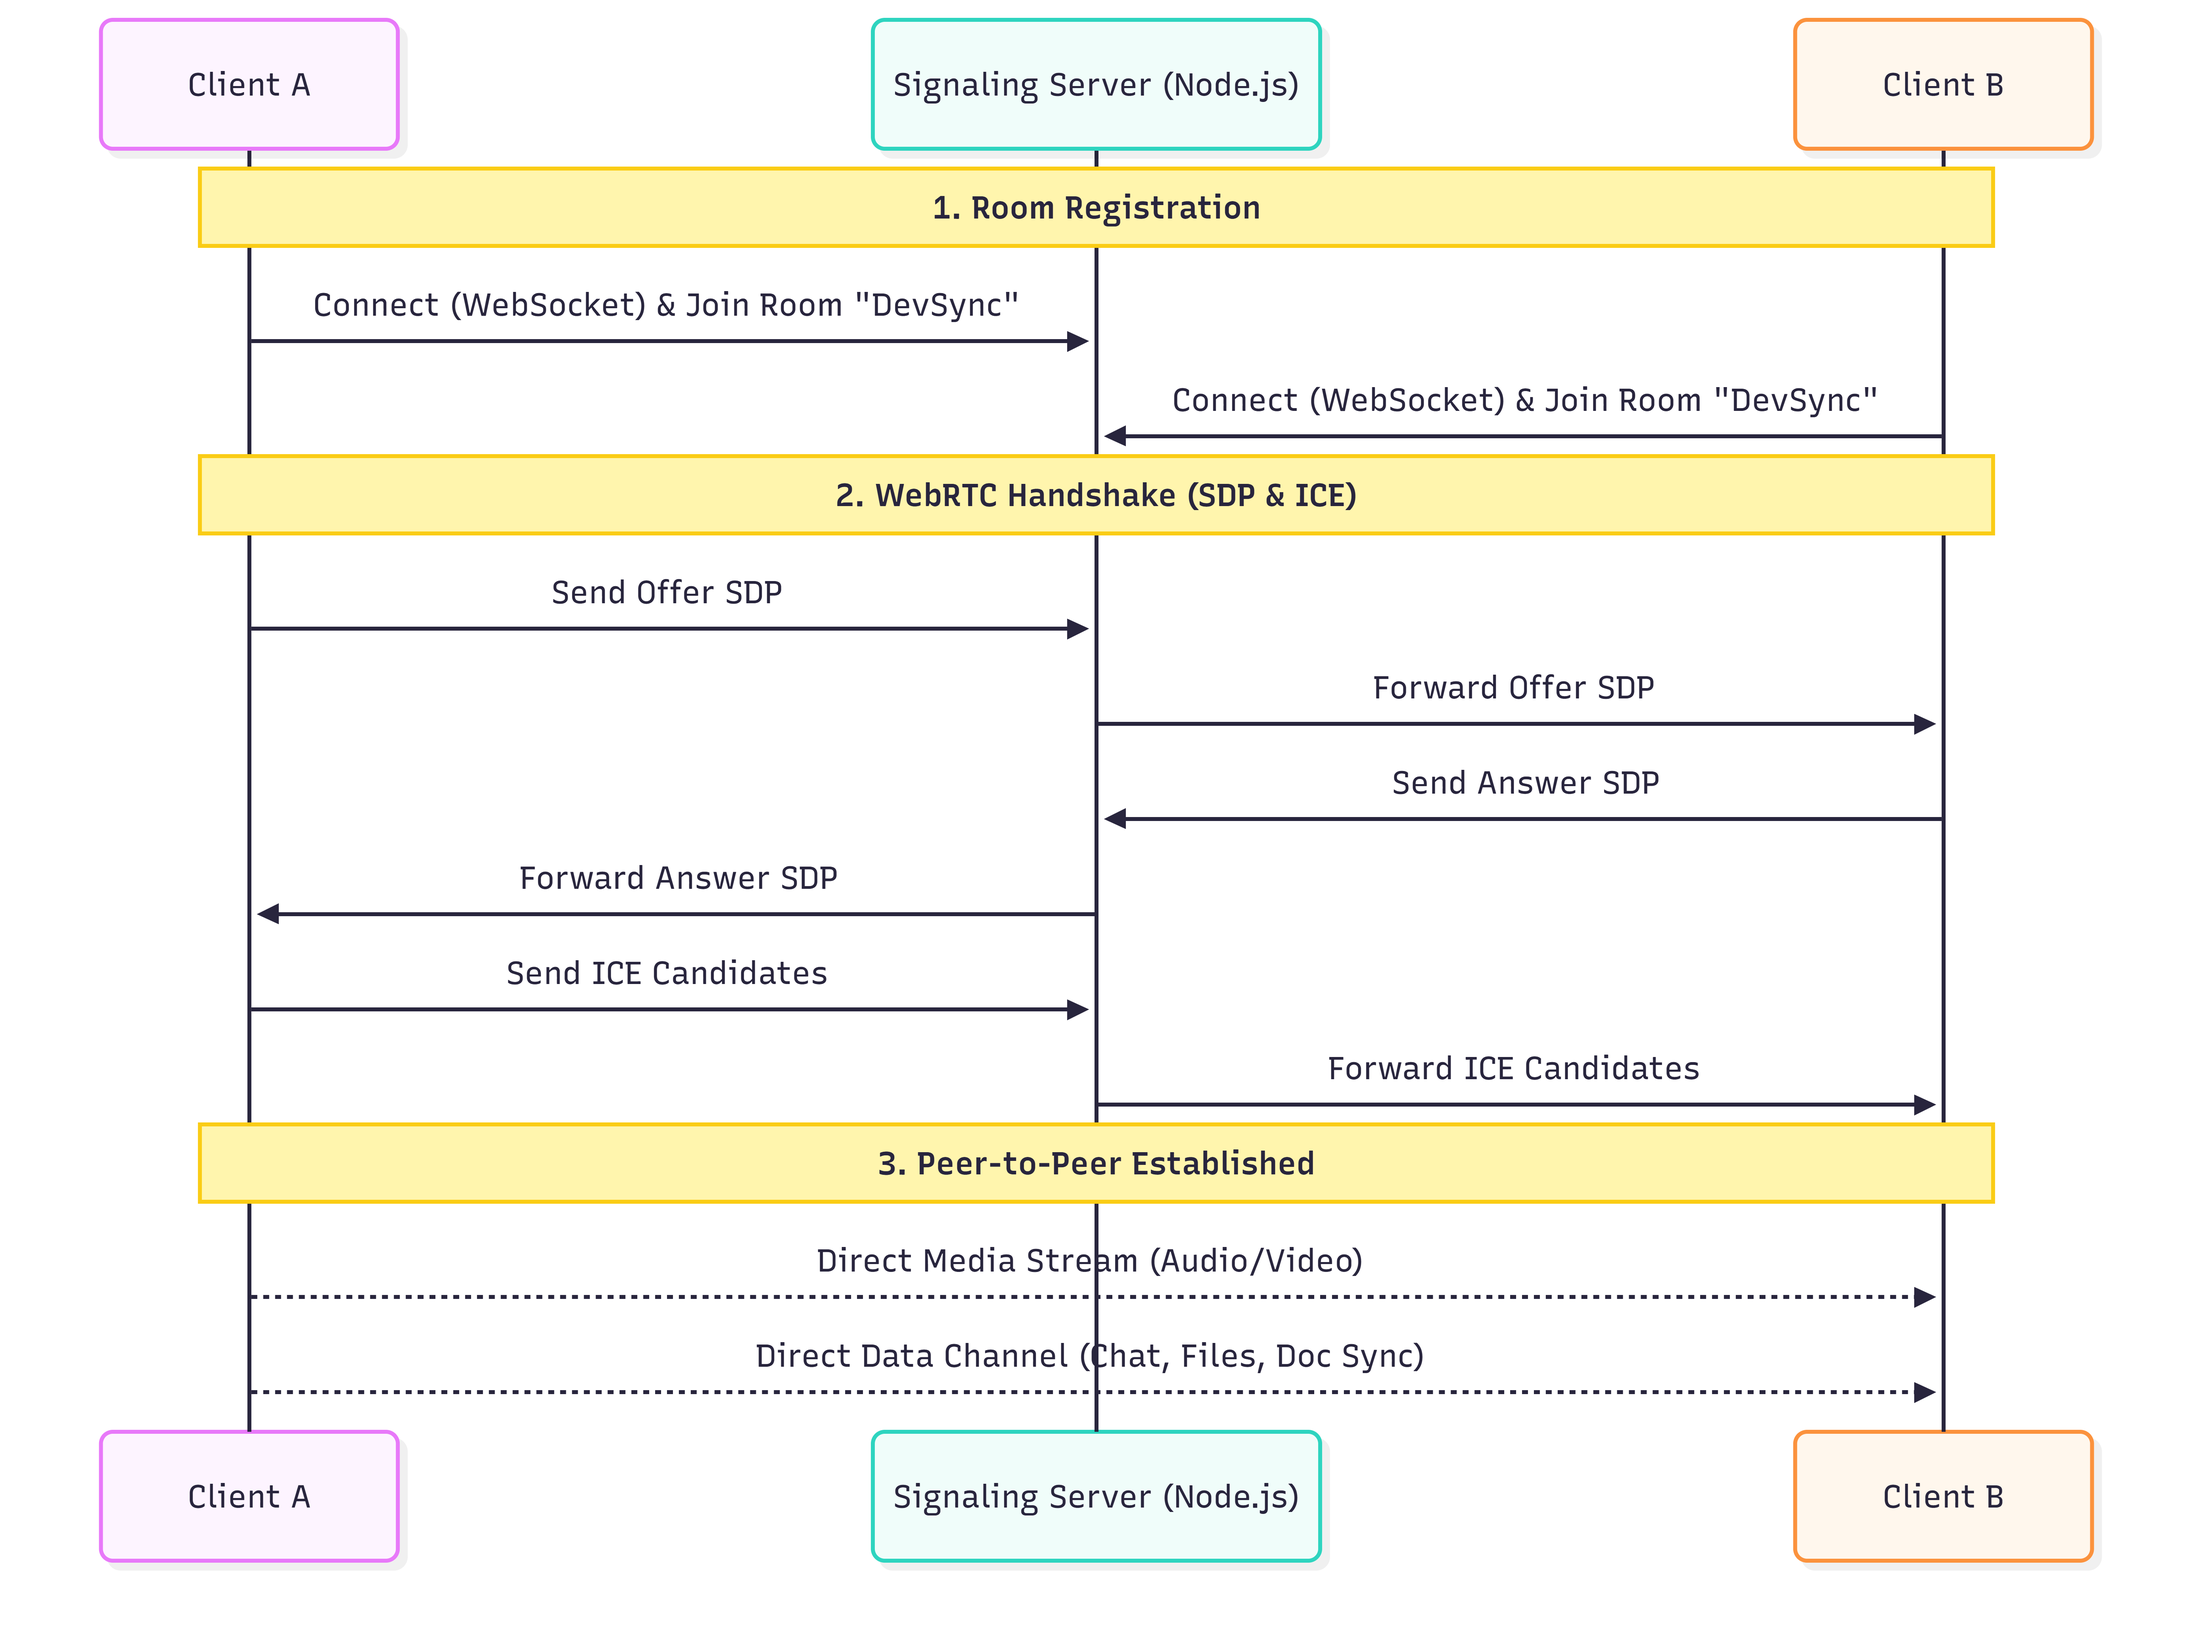
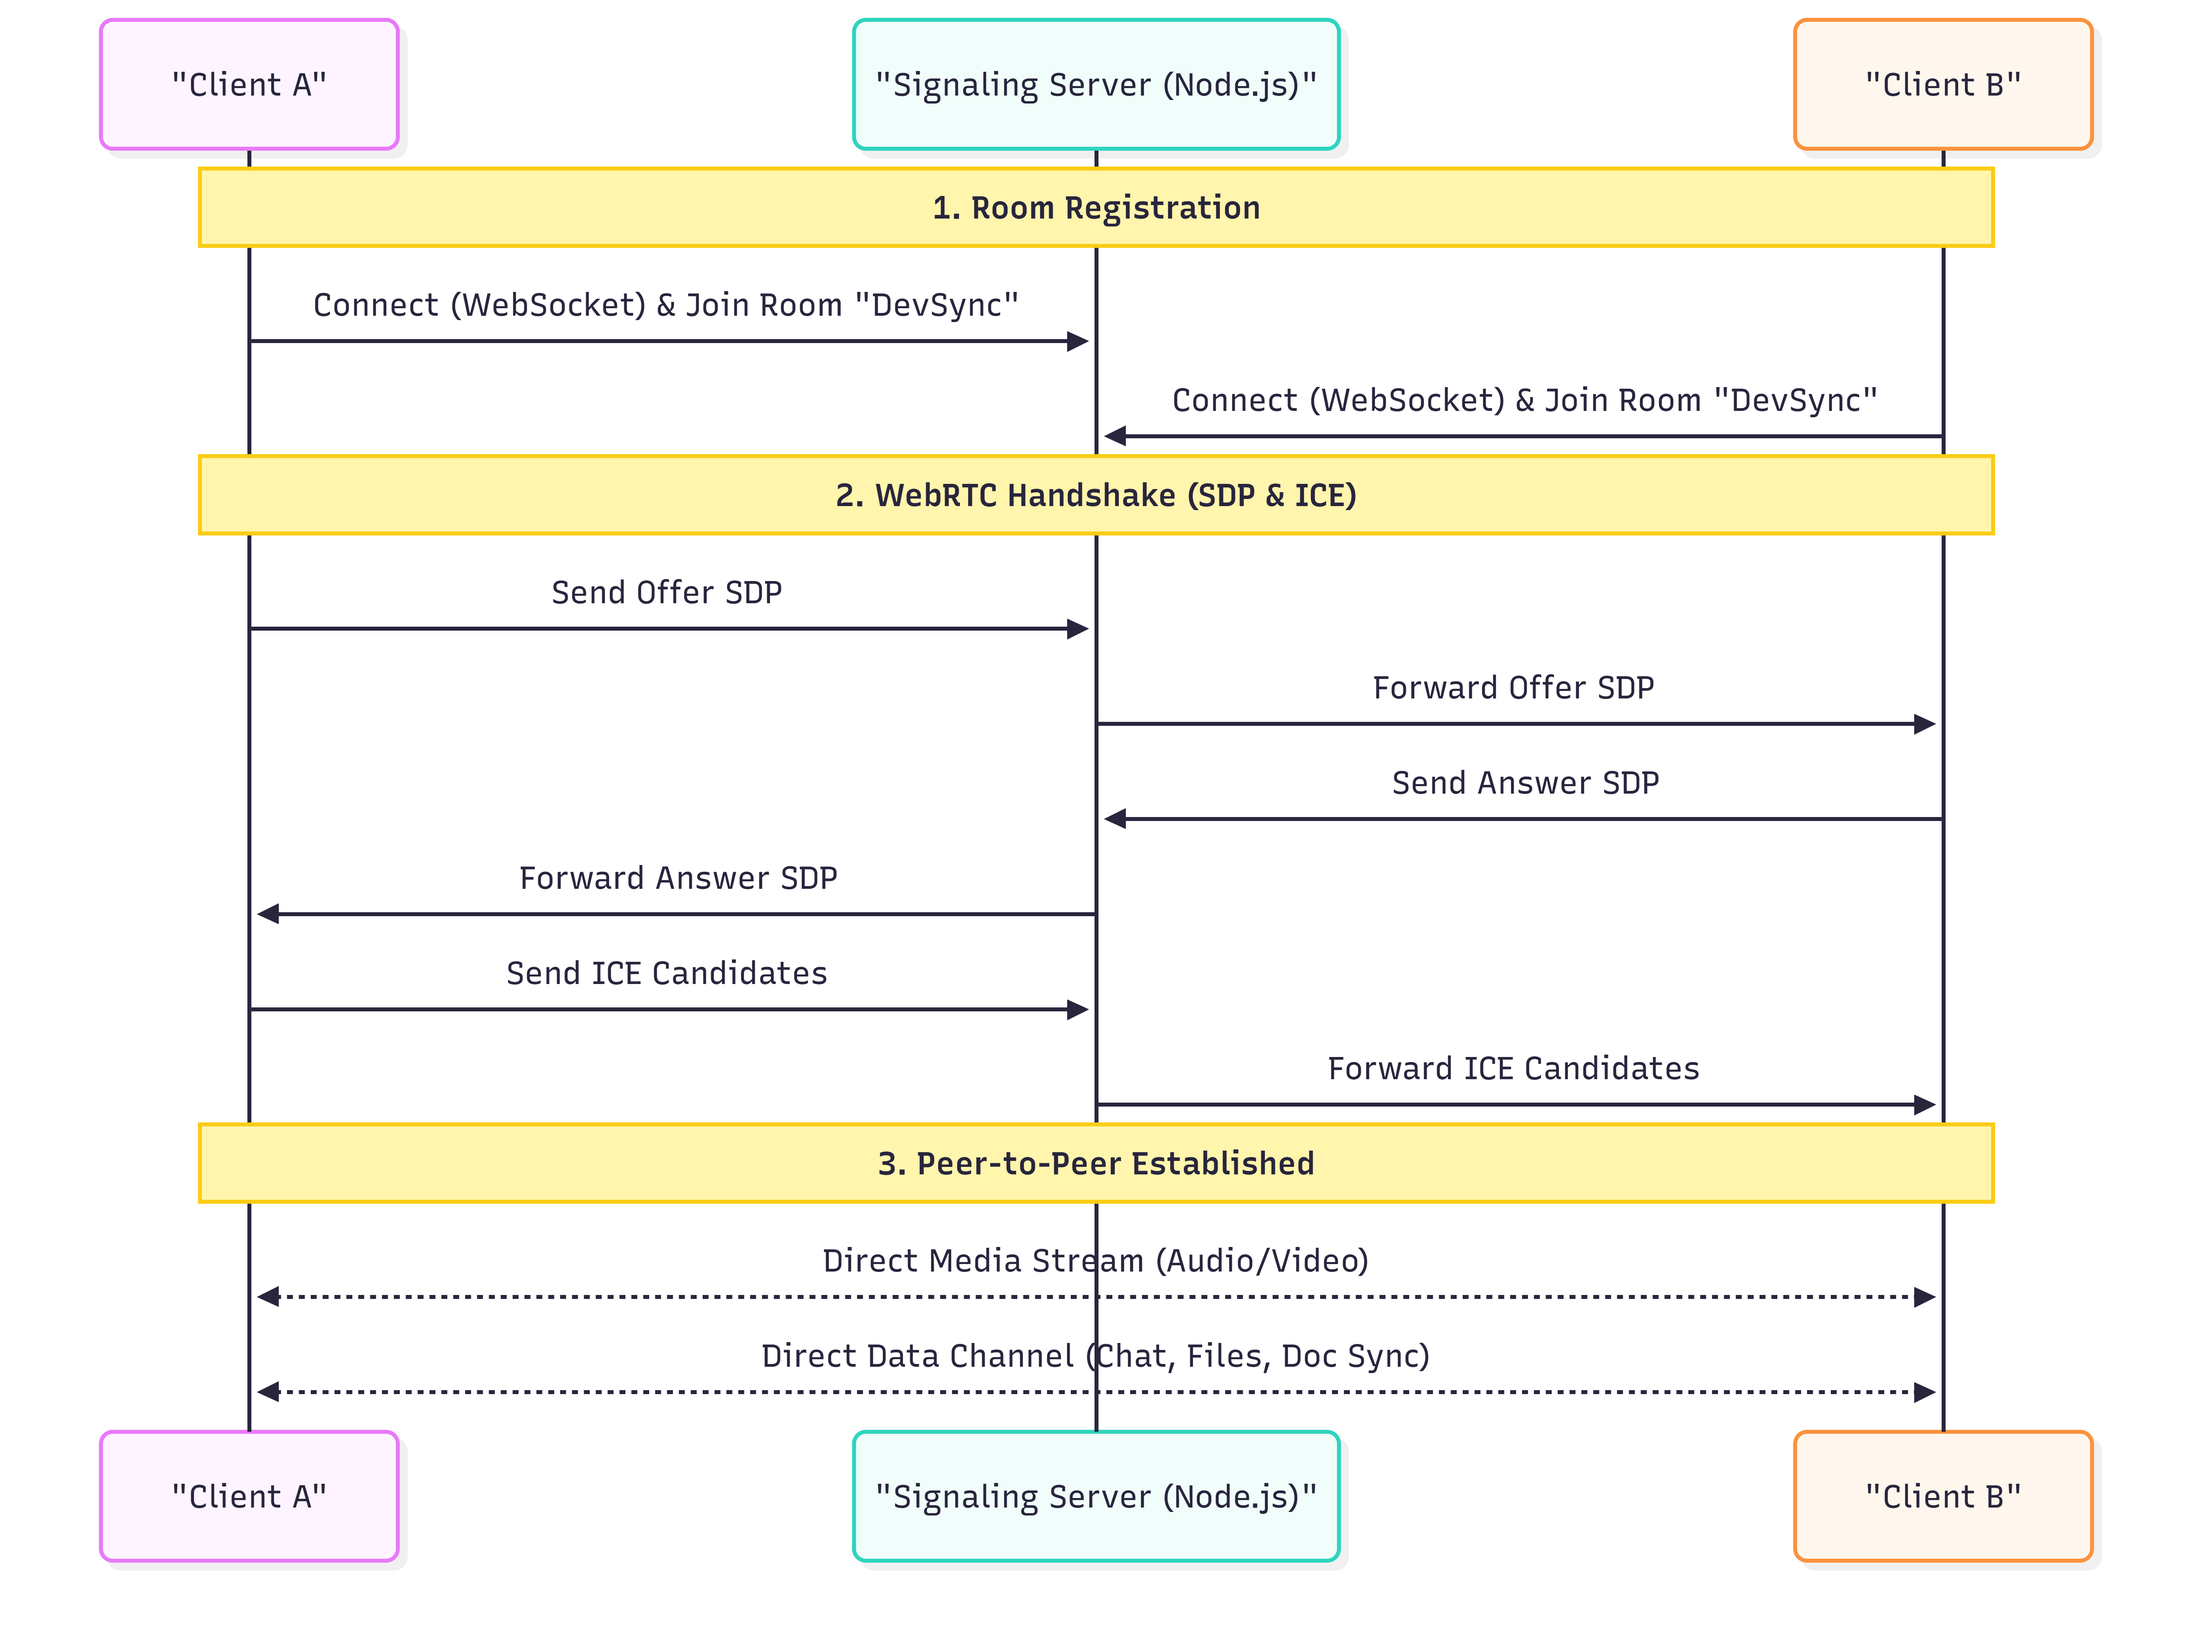
Updated README.md

diff --git a/README.md b/README.md
@@ -26,7 +26,7 @@ The system utilizes a hybrid architecture: centralized signaling for discovery, 
 
 ### Client Component Structure (UML)
 
-![Component Diagram](images/WebRTC%20Peer-to-Peer%20Sync-2026-05-12-180309.png)
+![Component Diagram](images/WebRTC%20Peer-to-Peer%20Sync-2026-05-12-181309.png)
 
 
 ## Getting Started
